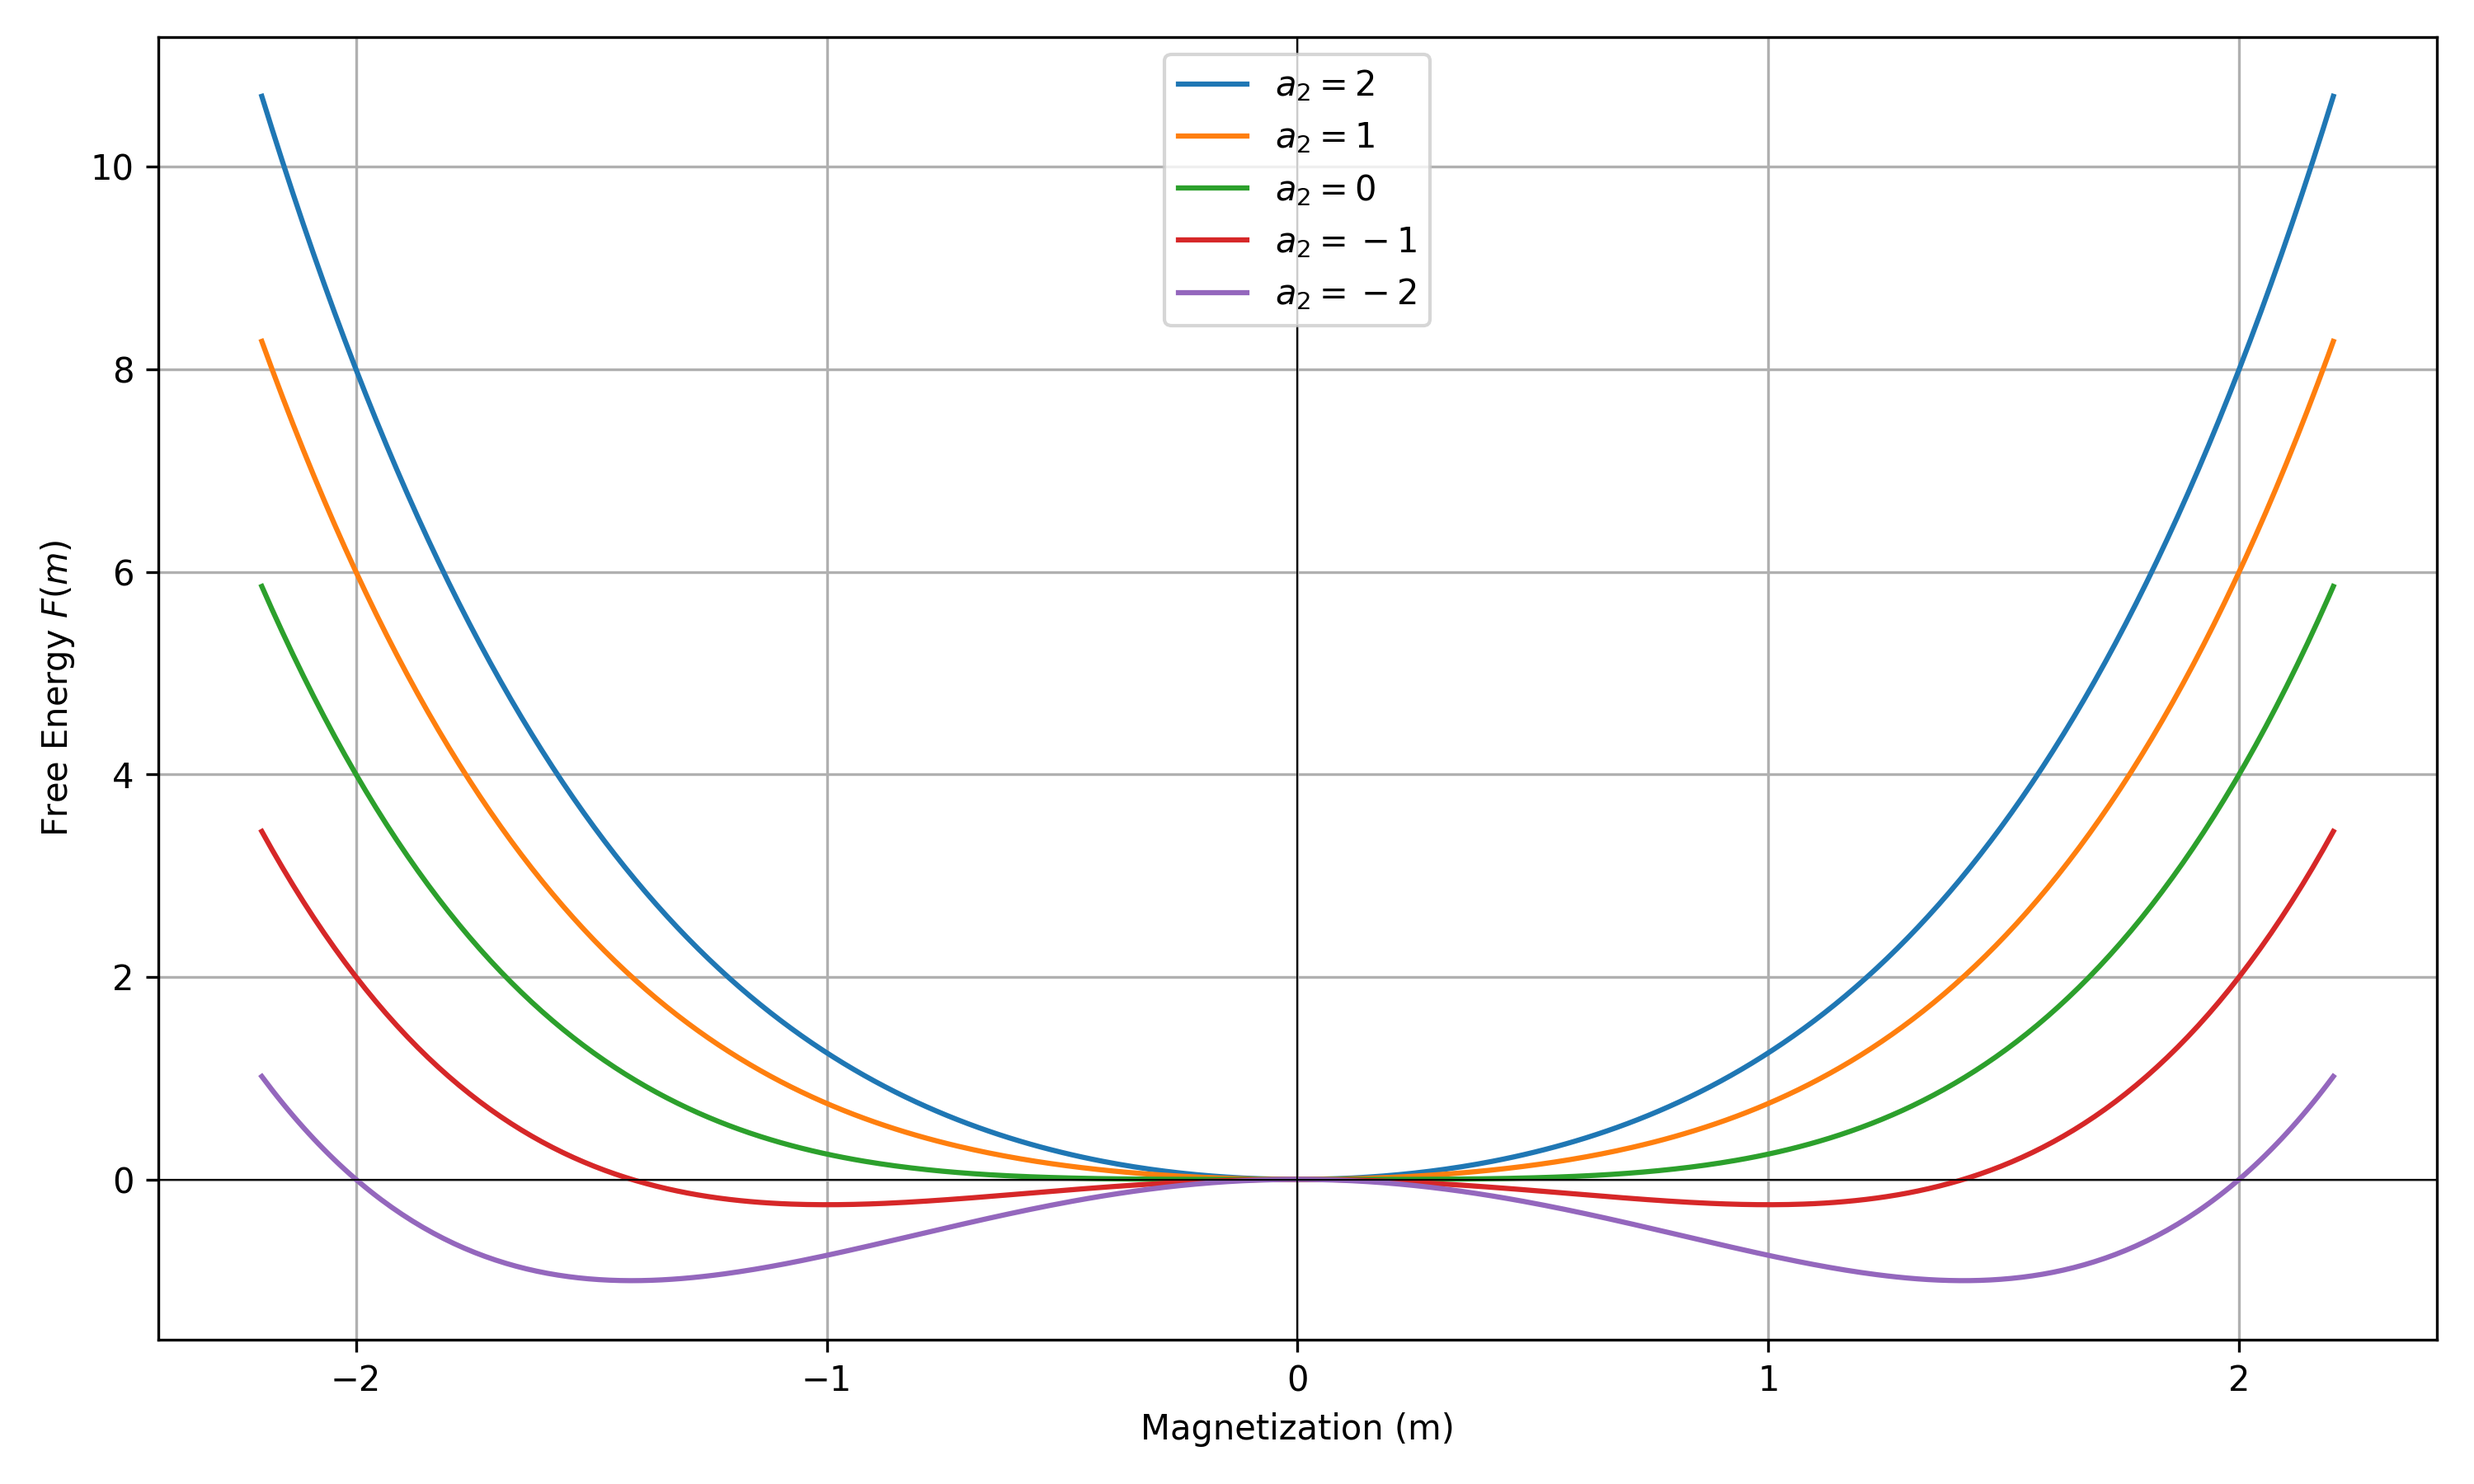
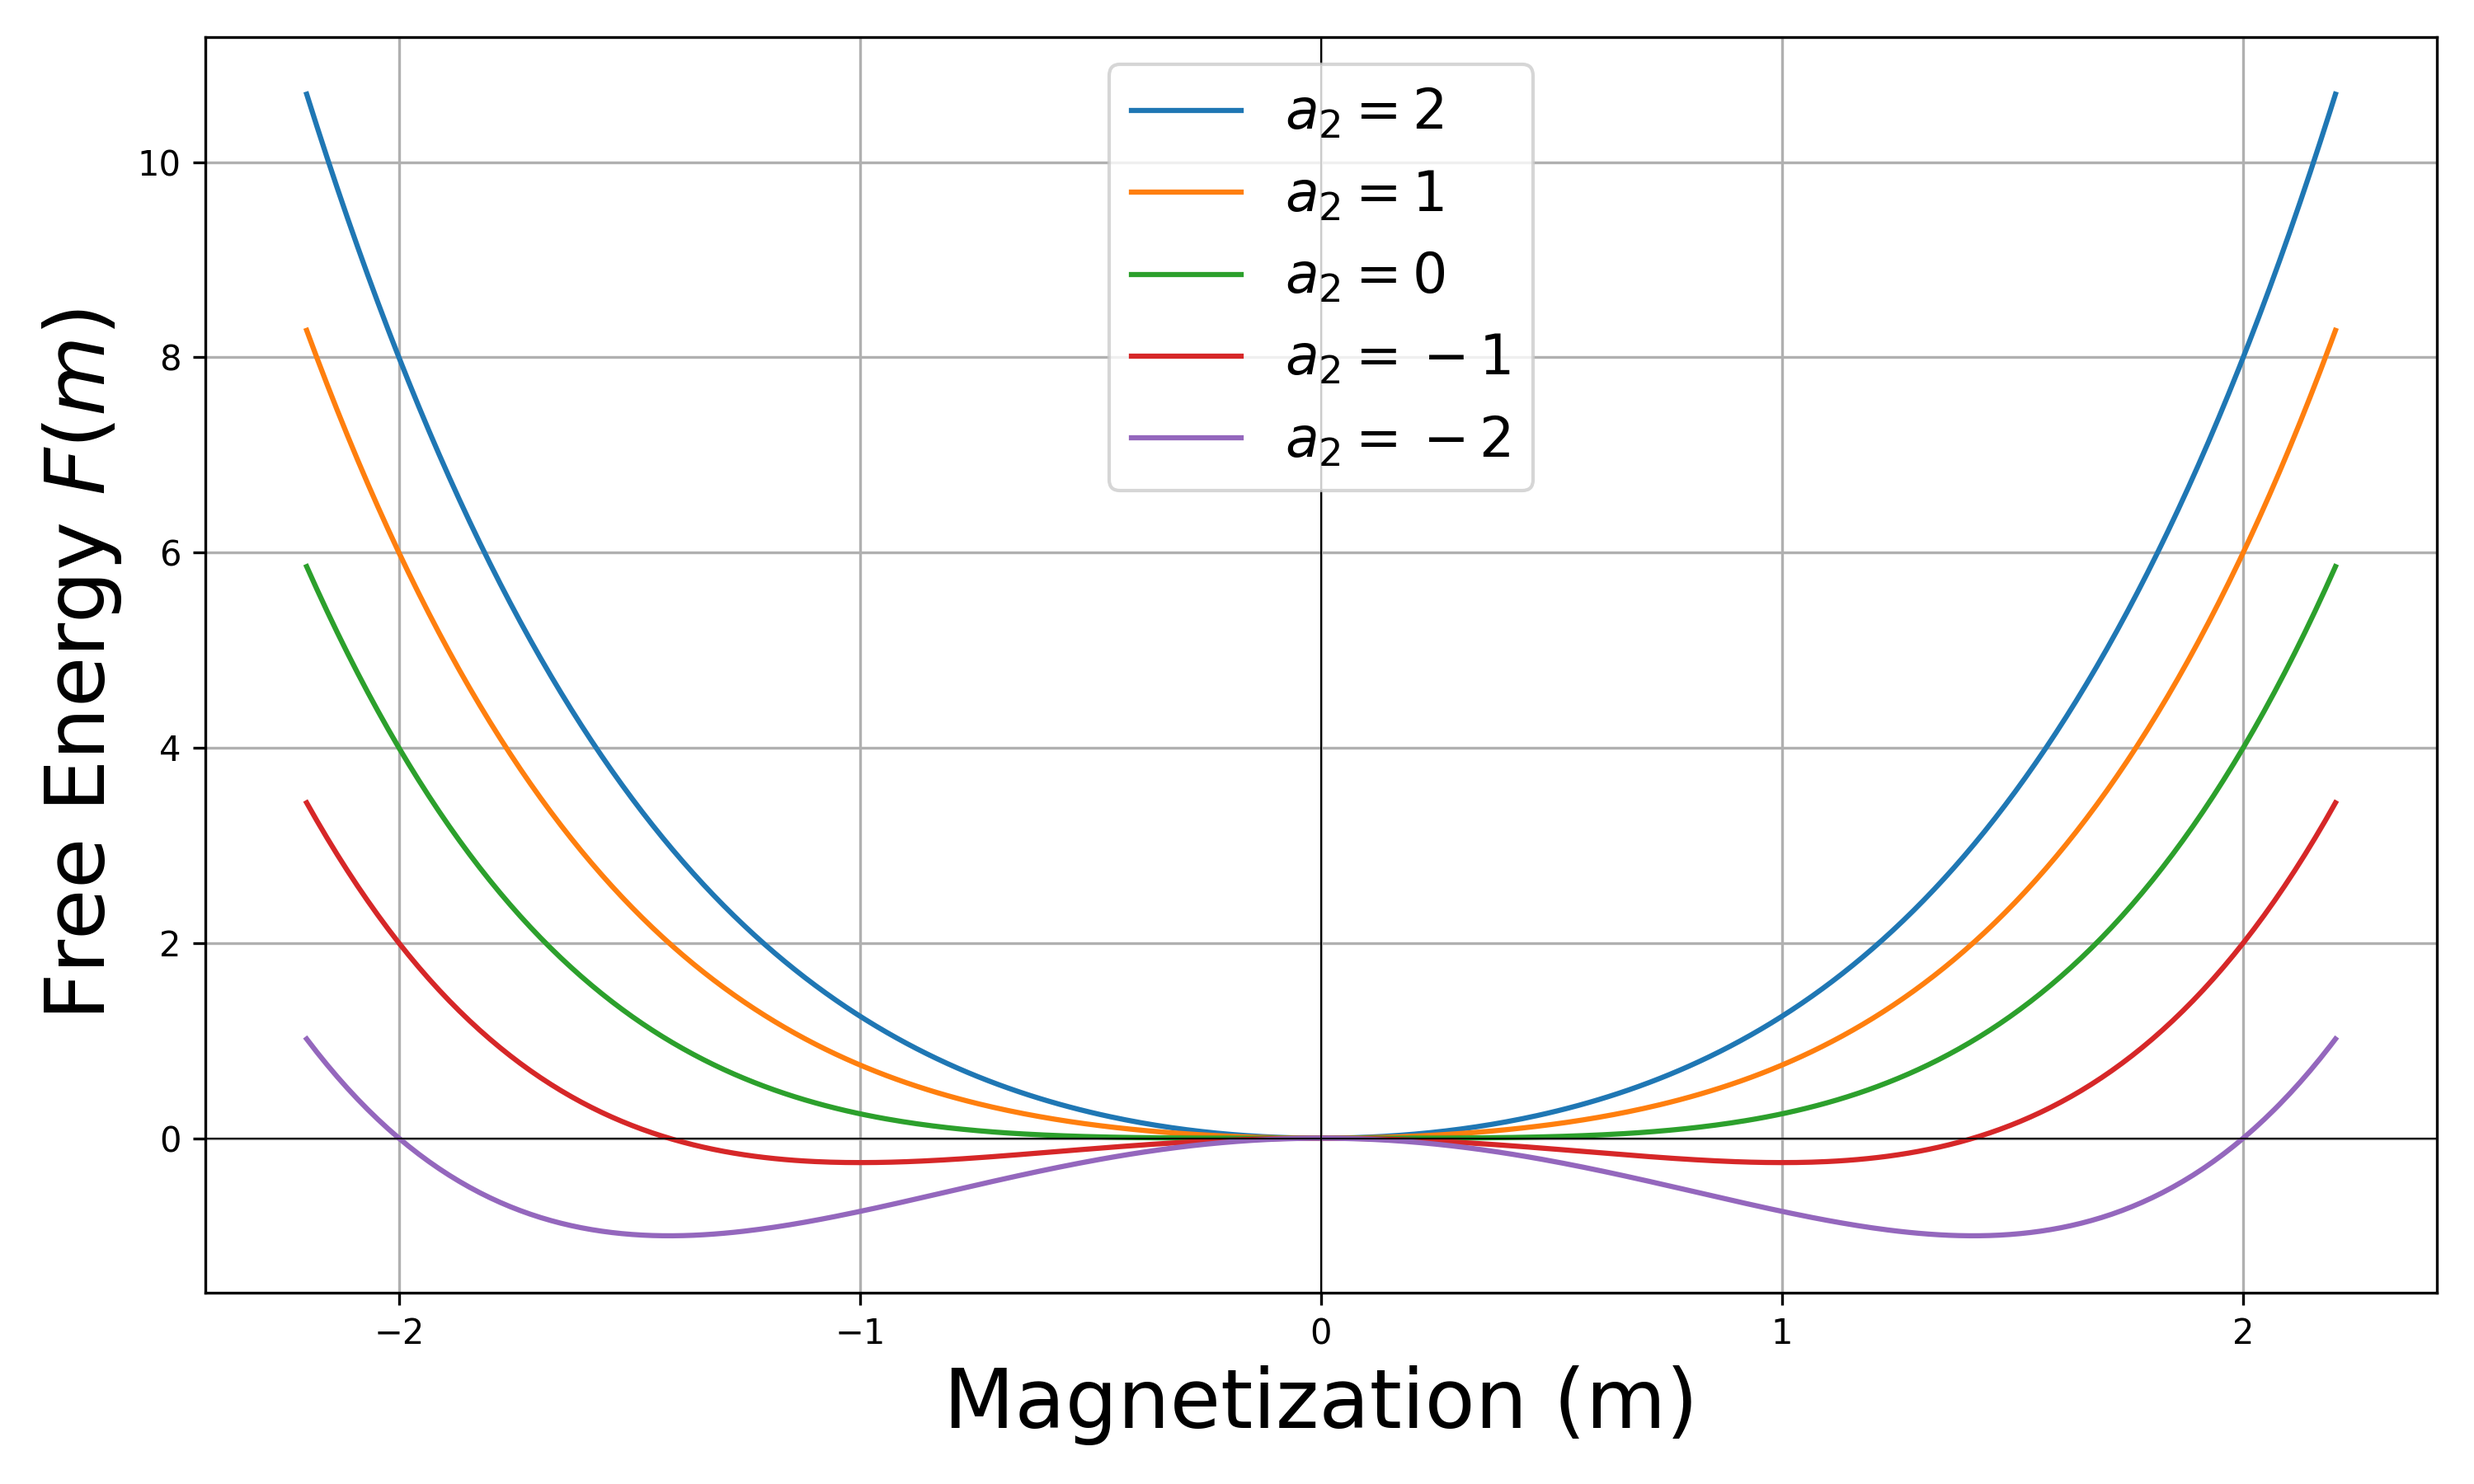
fig changes

diff --git a/docs/phase-transitions/mean-field-theory.html b/docs/phase-transitions/mean-field-theory.html
@@ -2,7 +2,7 @@
 <html xmlns="http://www.w3.org/1999/xhtml" lang="en" xml:lang="en"><head>
 
 <meta charset="utf-8">
-<meta name="generator" content="quarto-1.4.554">
+<meta name="generator" content="quarto-1.4.551">
 
 <meta name="viewport" content="width=device-width, initial-scale=1.0, user-scalable=yes">
 
@@ -436,7 +436,7 @@ Figure&nbsp;5.1: Schematic of the form of the free energy for a critical, subcri
 <div id="fig-isingmag" class="quarto-figure quarto-figure-center quarto-float anchored" data-fig-align="center">
 <figure class="quarto-float quarto-float-fig figure">
 <div aria-describedby="fig-isingmag-caption-0ceaefa1-69ba-4598-a22c-09a6ac19f8ca">
-<img src="Figs/isingmag_new.png" class="img-fluid quarto-figure quarto-figure-center figure-img" style="width:70.0%">
+<img src="Figs/isingmag_new.png" class="img-fluid quarto-figure quarto-figure-center figure-img" style="width:60.0%">
 </div>
 <figcaption class="quarto-float-caption-bottom quarto-float-caption quarto-float-fig" id="fig-isingmag-caption-0ceaefa1-69ba-4598-a22c-09a6ac19f8ca">
 Figure&nbsp;5.2: Phase diagram of a simple magnet in the <span class="math inline">\(m\)</span>-<span class="math inline">\(T\)</span> plane.
@@ -448,7 +448,7 @@ Figure&nbsp;5.2: Phase diagram of a simple magnet in the <span class="math inlin
 <div id="fig-isingpdH" class="quarto-figure quarto-figure-center quarto-float anchored">
 <figure class="quarto-float quarto-float-fig figure">
 <div aria-describedby="fig-isingpdH-caption-0ceaefa1-69ba-4598-a22c-09a6ac19f8ca">
-<img src="Figs/isingpdH.png" class="img-fluid figure-img" style="width:70.0%">
+<img src="Figs/isingpdH.png" class="img-fluid figure-img" style="width:50.0%">
 </div>
 <figcaption class="quarto-float-caption-bottom quarto-float-caption quarto-float-fig" id="fig-isingpdH-caption-0ceaefa1-69ba-4598-a22c-09a6ac19f8ca">
 Figure&nbsp;5.3: Phase diagram of a simple magnet in the <span class="math inline">\(H\)</span>-<span class="math inline">\(T\)</span> plane.
@@ -517,7 +517,7 @@ m= \pm\sqrt{-3t} &amp; ~~\textrm{ for}  \:\:\: T&lt;T_c ~~\textrm{ real}
 <div id="fig-mfsum" class="quarto-figure quarto-figure-center quarto-float anchored" data-fig-align="center">
 <figure class="quarto-float quarto-float-fig figure">
 <div aria-describedby="fig-mfsum-caption-0ceaefa1-69ba-4598-a22c-09a6ac19f8ca">
-<img src="Figs/summary.png" class="img-fluid quarto-figure quarto-figure-center figure-img" style="width:80.0%">
+<img src="Figs/summary.png" class="img-fluid quarto-figure quarto-figure-center figure-img" style="width:60.0%">
 </div>
 <figcaption class="quarto-float-caption-bottom quarto-float-caption quarto-float-fig" id="fig-mfsum-caption-0ceaefa1-69ba-4598-a22c-09a6ac19f8ca">
 Figure&nbsp;5.4: Mean field behaviour of the Ising magnetisation and susceptibility (schematic)
@@ -536,7 +536,7 @@ Figure&nbsp;5.4: Mean field behaviour of the Ising magnetisation and susceptibil
 <div id="fig-landau" class="quarto-figure quarto-figure-center quarto-float anchored" data-fig-align="center">
 <figure class="quarto-float quarto-float-fig figure">
 <div aria-describedby="fig-landau-caption-0ceaefa1-69ba-4598-a22c-09a6ac19f8ca">
-<img src="Figs/landau_free_energy.png" class="img-fluid quarto-figure quarto-figure-center figure-img" style="width:80.0%">
+<img src="Figs/landau_free_energy.png" class="img-fluid quarto-figure quarto-figure-center figure-img" style="width:70.0%">
 </div>
 <figcaption class="quarto-float-caption-bottom quarto-float-caption quarto-float-fig" id="fig-landau-caption-0ceaefa1-69ba-4598-a22c-09a6ac19f8ca">
 Figure&nbsp;5.5: Form of the Landau Free energy for a selection of values of the <span class="math inline">\(a_2\)</span> parameter.

diff --git a/docs/phase-transitions/Brownian-and-Langevin-dynamics.html b/docs/phase-transitions/Brownian-and-Langevin-dynamics.html
@@ -2,7 +2,7 @@
 <html xmlns="http://www.w3.org/1999/xhtml" lang="en" xml:lang="en"><head>
 
 <meta charset="utf-8">
-<meta name="generator" content="quarto-1.4.554">
+<meta name="generator" content="quarto-1.4.551">
 
 <meta name="viewport" content="width=device-width, initial-scale=1.0, user-scalable=yes">
 
@@ -607,7 +607,7 @@ m \dot{v} = -\gamma v + qE
 <section id="molecular-dynamics-simulation-of-brownian-motion-for-a-colloid-particle-in-a-liquid-suspension" class="level3" data-number="11.2.6">
 <h3 data-number="11.2.6" class="anchored" data-anchor-id="molecular-dynamics-simulation-of-brownian-motion-for-a-colloid-particle-in-a-liquid-suspension"><span class="header-section-number">11.2.6</span> Molecular Dynamics simulation of Brownian motion for a colloid particle in a liquid suspension</h3>
 <div class="quarto-video"><video id="video_shortcode_videojs_video1" class="video-js vjs-default-skin vjs-fluid" controls="" preload="auto" data-setup="{}" title=""><source src="Movies/brownian_colloid.mp4"></video></div>
-<div id="a5c13f6c" class="cell" data-execution_count="1">
+<div id="14aee269" class="cell" data-execution_count="1">
 <details class="code-fold">
 <summary>Show python code</summary>
 <div class="sourceCode cell-code" id="cb1"><pre class="sourceCode python code-with-copy"><code class="sourceCode python"><span id="cb1-1"><a href="#cb1-1" aria-hidden="true" tabindex="-1"></a><span class="im">import</span> numpy <span class="im">as</span> np</span>

diff --git a/quarto/phase-transitions/code/ising_pdH.py b/quarto/phase-transitions/code/ising_pdH.py
@@ -1,0 +1,81 @@
+
+import numpy as np
+import matplotlib.pyplot as plt
+from matplotlib.patches import FancyArrow
+
+fig, ax = plt.subplots(figsize=(8, 6))
+
+Tc = 1.0
+
+T_first_order = np.linspace(0, Tc, 100)
+H_first_order = np.zeros_like(T_first_order)
+ax.plot(T_first_order, H_first_order, 'k-')
+
+ax.plot(Tc, 0, 'ro')
+ax.text(Tc - 0.2, -0.1, 'Critical Point', color='r', fontsize=10, ha='left', va='bottom')
+
+ax.set_xlabel('Temperature (T)')
+ax.set_ylabel('Magnetic Field (H)')
+ax.grid(False)
+
+ax.text(1.2, 0.0, 'Paramagnetic', fontsize=12)
+ax.text(0.3, 0.5, 'Positive\nMagnetisation', fontsize=12, ha='center')
+ax.text(0.3, -0.65, 'Negative\nMagnetisation', fontsize=12, ha='center')
+
+for spine in ax.spines.values():
+    spine.set_visible(True)
+
+ax.set_xlim(0, 2)
+ax.set_ylim(-1, 1)
+ax.set_yticks([])
+ax.set_xticks([Tc])
+ax.set_xticklabels([r'$T_c$'], fontsize=12)
+
+ax.annotate('', xy=(0.5, 0.2), xytext=(0.5, -0.2),
+            arrowprops=dict(arrowstyle='<->', linewidth=1.5, color='red'))
+ax.text(0.55, 0.125, 'First-order\nPhase Transition', va='bottom', fontsize=10)
+
+center_x, center_y = 0.3, 0.28
+width_x, height_y = 0.12 * 1.5 * 0.8, 0.12 * 1.5
+x_vals = np.linspace(center_x - width_x/2, center_x + width_x/2, 4)
+y_vals = np.linspace(center_y - height_y/2, center_y + height_y/2, 4)
+
+arrow_length = 0.045
+arrow_width = 0.002
+
+for x in x_vals:
+    for y in y_vals:
+        arrow = FancyArrow(x, y, 0, arrow_length, width=arrow_width,
+                           head_width=0.015, head_length=0.015,
+                           length_includes_head=True, color='k')
+        ax.add_patch(arrow)
+
+for x in x_vals:
+    for y in y_vals:
+        arrow = FancyArrow(x, -y, 0, -arrow_length, width=arrow_width,
+                           head_width=0.015, head_length=0.015,
+                           length_includes_head=True, color='k')
+        ax.add_patch(arrow)
+
+vertical_shift = 0.025
+dilation_factor = 1.05 ** 2
+
+box_half_width = (width_x / 2 + 0.01) * dilation_factor
+box_left = center_x - box_half_width
+box_right = center_x + box_half_width
+box_bottom = center_y - height_y/2 - 0.01 - 0.025 + vertical_shift
+box_top = center_y + height_y/2 + 0.01 + 0.025 + vertical_shift
+
+ax.plot([box_left, box_right], [box_bottom, box_bottom], 'k-')
+ax.plot([box_left, box_right], [box_top, box_top], 'k-')
+ax.plot([box_left, box_left], [box_bottom, box_top], 'k-')
+ax.plot([box_right, box_right], [box_bottom, box_top], 'k-')
+
+ax.plot([box_left, box_right], [-box_bottom, -box_bottom], 'k-')
+ax.plot([box_left, box_right], [-box_top, -box_top], 'k-')
+ax.plot([box_left, box_left], [-box_bottom, -box_top], 'k-')
+ax.plot([box_right, box_right], [-box_bottom, -box_top], 'k-')
+
+# Save the figure
+plt.savefig('ising_phase_diagram_output.png', dpi=300, bbox_inches='tight')
+plt.show()

diff --git a/quarto/phase-transitions/code/landau_free_energy.py b/quarto/phase-transitions/code/landau_free_energy.py
@@ -20,11 +20,11 @@ for a2 in a2_values:
 
 # Labeling
 #plt.title('Landau Free Energy for Different $a_2$ Values')
-plt.xlabel('Magnetization (m)')
-plt.ylabel('Free Energy $F(m)$')
+plt.xlabel('Magnetization (m)', fontsize=24)
+plt.ylabel('Free Energy $F(m)$', fontsize=24)
 plt.axhline(0, color='black', linewidth=0.5)
 plt.axvline(0, color='black', linewidth=0.5)
-plt.legend()
+plt.legend(fontsize=16)
 plt.grid(True)
 plt.tight_layout()
 
